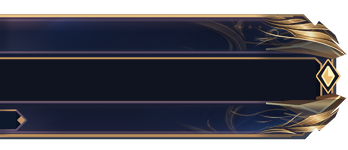
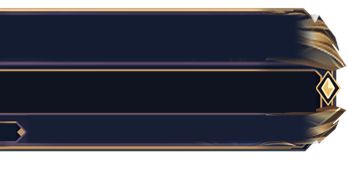
feat(hud): Celestial Crest v3 art (taller name strip); Slim/Medium/Large boss bar, Medium default (new boss_bar_size key); blue backing disc under the portrait

diff --git a/Plugin.TargetHud.Frame.cs b/Plugin.TargetHud.Frame.cs
@@ -3,38 +3,67 @@ using Stellar.Abstractions.Services;
 
 namespace Stellar.TargetLens;
 
-// "Celestial Crest" boss-bar frame for the Target HUD (user-chosen 2026-11-18, direction A — replaced Resonance Glass;
-// art + geometry: _scratch/prototypes/tl-bossbar-art-v2/README.md, same slots as v1). Two sizes, picked in Settings →
-// Target HUD → "Boss bar size" (config "hud_bar_size": 0 = Slim, the default; 1 = Large):
-//   Slim  = the 1× art (@1x PNGs), frame 75 px tall, total width 266 + M  — the "slim" ~9:1 look of the prototype.
-//   Large = the 2× art, frame 150 px tall, total width 532 + M.
-// M is the stretched middle (follows the window width). Geometry below is written in 2× px and halved for Slim (G),
-// so both sizes share one layout:
+// "Celestial Crest" v3 boss-bar frame for the Target HUD (user-approved 2026-11-18: direction A + the taller name strip;
+// art + every slot rect: _scratch/prototypes/tl-bossbar-art-v3/README.md). Three sizes, picked in Settings → Target HUD →
+// "Boss bar size" (config "boss_bar_size": 0 = Slim 1×, 1 = Medium 1.5× — the default, 2 = Large 2×):
 //
+//   size     frame H   total width   PNG suffix
+//   Slim       88      266 + M       @1x
+//   Medium    132      399 + M       @1.5x
+//   Large     176      532 + M       (none)
+//
+// M is the stretched middle (follows the window width). Layer order (README "Assembly"):
 //   LayerStack   base = a frame-height strut (the stack is as wide as the window content)
-//     ├─ portrait      (32, 32, 88×88) circle r 44 — UNDER the frame (the art's portrait socket is transparent)
-//     ├─ frame art     framework 3-slice: left 184 + middle (stretched) + right 348
-//     ├─ badge art     (144, 11, 120×40) gold = BOSS, orange = ELITE, + its text
-//     ├─ name row      name left-centred at x 276 (144 with no badge) + the distance, right-aligned, ending 58 px
-//     │                from the right edge (inside the right cap's distance area); dark drop-shadow copy under it
-//     ├─ HP bar        interior (144, 60, 356+M × 40): gradient + gloss + 10 % ticks + damage trail + striped shield
-//     └─ break gauge   interior (144, 112, 56+M × 16), 10 segments, label right of it on the right cap (MaxStunned > 0)
+//     ├─ portrait disc  deep royal-blue radial backing (Resources/portrait-disc-<px>.png) — portraits with a transparent
+//     │                 background would otherwise show the scene through the medallion
+//     ├─ portrait       the monster's game portrait, circle — UNDER the frame (the art's socket is transparent)
+//     ├─ frame art      framework 3-slice: left cap + middle (stretched) + right cap
+//     ├─ badge art      gold = BOSS, orange = ELITE, + its text
+//     ├─ name row       name left-centred in the name strip (moves left with no badge) + the distance, right-aligned in
+//     │                 the right cap's distance slot; dark drop-shadow copy under it
+//     ├─ HP bar         gradient + gloss + 10 % ticks + damage trail + striped shield
+//     └─ break gauge    10 segments, label right of it in the right cap's break-label area (MaxStunned > 0)
 //
-// Every slot is a StackLayer.Rect (framework 2.34.0) measured from the frame's edges, so a width resize moves anchors
-// only. Art colours are fixed by design (they don't follow the theme). Getters are ≤10 Hz (window refresh) and
-// allocation-free: display strings are cached and rebuilt only when the shown value (or the language) changes.
-// Text: every label is TMP (SDF, sharp at any size) except the HP bar's two labels, which are uGUI dynamic-font Text
-// rasterised at their real pixel size (Scaled(size)) — never a bitmap scaled up — so the 12 px Slim labels stay crisp.
+// Every slot is a StackLayer.Rect (framework 2.34.0) measured from the frame's edges (right-cap slots as insets from the
+// right edge), so a width resize moves anchors only. Art colours are fixed by design (they don't follow the theme).
+// Getters are ≤10 Hz (window refresh) and allocation-free: display strings are cached and rebuilt only when the shown
+// value (or the language) changes. Text: every label is TMP (SDF, sharp at any size) except the HP bar's two labels,
+// which are uGUI dynamic-font Text rasterised at their real pixel size — never a bitmap scaled up.
 public sealed partial class Plugin
 {
-    private bool _hudLarge;   // config "hud_bar_size" == 1 → Large (2×); default Slim (1×). Baked into the window at build.
+    // One size's geometry, straight from the v3 README (px, frame-local). Right* = inset from the frame's RIGHT edge,
+    // derived as (right cap width − local x − width) for right-cap slots and (caps − x − fixed width) for the gauges.
+    private sealed record FrameGeo(
+        string Suffix, float H, float CapsW, float MidMin, float DefaultW,
+        float HpL, float HpT, float HpH, float HpR,
+        float BrL, float BrT, float BrH, float BrR,
+        float PortX, float PortY, float PortD,
+        float BadgeX, float BadgeY, float BadgeW, float BadgeH,
+        float NameX, float StripT, float StripH,
+        float DistR, float DistW, float LblR, float LblW, float LblT, float LblH,
+        int NameFs, int HpFs, int DistFs, int BadgeFs, int LblFs,
+        float Unit);   // 1 / 1.5 / 2 — scales the small effects (shadow, gaps, glow, stripes, segment gaps)
 
-    private float FrameH => _hudLarge ? 150f : 75f;
-    private float FrameCapsW => _hudLarge ? 532f : 266f;   // left cap + right cap at native width
+    private static readonly FrameGeo[] FrameGeos =
+    {
+        // Slim 1×: HP (72,36,178+M,20) · break (72,62,28+M,8) · portrait (16,22,44) · badge (72,8,60,20) · name x 138,
+        // centre y 18 · distance cap-local (76,8,70,20) · break label cap-local (15,58,135,12) · right cap 174.
+        new("@1x", 88, 266, 60, 670, 72, 36, 20, 16, 72, 62, 8, 166, 16, 22, 44, 72, 8, 60, 20, 138, 8, 20,
+            28, 40, 24, 135, 58, 12, 15, 12, 12, 11, 11, 1f),
+        // Medium 1.5×: HP (108,54,267+M,30) · break (108,93,42+M,12) · portrait (24,33,66) · badge (108,12,90,30) ·
+        // name x 207, centre y 27 · distance (114,12,105,30) · break label (22,87,203,18) · right cap 261.
+        new("@1.5x", 132, 399, 90, 1000, 108, 54, 30, 24, 108, 93, 12, 249, 24, 33, 66, 108, 12, 90, 30, 207, 12, 30,
+            42, 60, 36, 203, 87, 18, 22, 16, 15, 15, 15, 1.5f),
+        // Large 2×: HP (144,72,356+M,40) · break (144,124,56+M,16) · portrait (32,44,88) · badge (144,16,120,40) ·
+        // name x 276, centre y 36 · distance (152,16,140,40) · break label (30,116,270,24) · right cap 348.
+        new("", 176, 532, 120, 1300, 144, 72, 40, 32, 144, 124, 16, 332, 32, 44, 88, 144, 16, 120, 40, 276, 16, 40,
+            56, 80, 48, 270, 116, 24, 30, 20, 18, 20, 20, 2f),
+    };
 
-    // 2× px → this size's px (Slim halves; .5 rounds away from zero, matching the README's 1× table: 11 → 6).
-    private float G(float px2x) => _hudLarge ? px2x : System.MathF.Round(px2x * 0.5f, System.MidpointRounding.AwayFromZero);
-    private int Fs(int slim, int large) => _hudLarge ? large : slim;   // font size per size (prototype CSS for Slim)
+    private int _hudSize = 1;                          // 0 Slim / 1 Medium / 2 Large; baked into the window at build
+    private FrameGeo Geo => FrameGeos[_hudSize];
+    private float FrameH => Geo.H;
+    private float FrameCapsW => Geo.CapsW;
 
     private static ColorRgba Hex(int rgb, float a = 1f)
         => new(((rgb >> 16) & 0xFF) / 255f, ((rgb >> 8) & 0xFF) / 255f, (rgb & 0xFF) / 255f, a);
@@ -53,11 +82,11 @@ public sealed partial class Plugin
     private static readonly GradientStop[] BreakGradient  = { new(0f, Hex(0x8fd0ff)), new(1f, Hex(0x2f86e6)) };
     private static readonly GradientStop[] BrokenGradient = { new(0f, Hex(0xffe08a)), new(1f, Hex(0xf29a2a)) };
 
-    // Embedded art (csproj Resources/celestial_crest_*.png, 2× and @1x), read once and cached by CachedPng
-    // (Plugin.Style.Blocks.cs). The Func is chosen at build, so the size's PNG is resolved once per window build.
+    // Embedded art (csproj Resources/celestial_crest_*.png at 2× / @1.5x / @1x, portrait-disc-<px>.png), read once and
+    // cached by CachedPng (Plugin.Style.Blocks.cs). The Func is chosen at build, so a size's PNG resolves once per build.
     private System.Func<byte[]?> Art(string piece)
     {
-        var file = "celestial_crest_" + piece + (_hudLarge ? ".png" : "@1x.png");
+        var file = "celestial_crest_" + piece + Geo.Suffix + ".png";
         return () => CachedPng(file);
     }
 
@@ -66,74 +95,79 @@ public sealed partial class Plugin
 
     private HudElement BuildTargetHudFrame()
     {
-        var badgeRect = new LayerRect { Left = G(144), Top = G(11), Width = G(120), Height = G(40) };
-        var breakRect = new LayerRect { Left = G(144), Right = G(332), Top = G(112), Height = G(16) };
-        float portrait = G(88);
+        var g = Geo;
+        var badgeRect = new LayerRect { Left = g.BadgeX, Top = g.BadgeY, Width = g.BadgeW, Height = g.BadgeH };
+        var breakRect = new LayerRect { Left = g.BrL, Right = g.BrR, Top = g.BrT, Height = g.BrH };
+        var portRect = new LayerRect { Left = g.PortX, Top = g.PortY, Width = g.PortD, Height = g.PortD };
+        int d = (int)g.PortD;
+        var discFile = "portrait-disc-" + d + ".png";
         return new LayerStackElement(
-            new SpacerElement(Height: FrameH),
-            At(new GameTextureElement(() => GetMonsterPortrait(), (int)portrait, (int)portrait, () => _portraitUv) { CornerRadius = (int)(portrait / 2f) },
-                new LayerRect { Left = G(32), Top = G(32), Width = portrait, Height = portrait }),
-            new StackLayer(new SlicedImageElement(Art("left"), Art("mid"), Art("right"), (int)FrameH)),
+            new SpacerElement(Height: g.H),
+            At(new ImageElement(() => CachedPng(discFile), d, d) { Crisp = true }, portRect),
+            At(new GameTextureElement(() => GetMonsterPortrait(), d, d, () => _portraitUv) { CornerRadius = d / 2 }, portRect),
+            new StackLayer(new SlicedImageElement(Art("left"), Art("mid"), Art("right"), (int)g.H)),
             // Rank badge: art + text (BOSS / ELITE). Normal monsters: no badge, and the name moves left.
-            At(new ImageElement(Art("badge_gold"), (int)G(120), (int)G(40)) { Crisp = true }, badgeRect, TargetHudIsBoss),
-            At(new ImageElement(Art("badge_orange"), (int)G(120), (int)G(40)) { Crisp = true }, badgeRect, TargetHudIsElite),
+            At(new ImageElement(Art("badge_gold"), (int)g.BadgeW, (int)g.BadgeH) { Crisp = true }, badgeRect, TargetHudIsBoss),
+            At(new ImageElement(Art("badge_orange"), (int)g.BadgeW, (int)g.BadgeH) { Crisp = true }, badgeRect, TargetHudIsElite),
             At(new TextElement(() => TargetHudRankText(), Color: () => TargetHudIsBoss() ? BossBadgeText : EliteBadgeText,
-                Align: TextAlign.Center, FontSize: Fs(11, 20)) { Bold = true, CenterCaps = true }, badgeRect, TargetHudHasRank),
+                Align: TextAlign.Center, FontSize: g.BadgeFs) { Bold = true, CenterCaps = true }, badgeRect, TargetHudHasRank),
             // Name (white bold) + distance share one row per rank variant, so the name gets every px up to the distance
             // text and is cut with "…" only when it really doesn't fit. The TMP text path has no shadow, so a dark copy
             // 1–2 px down-right (same row width → the same cut) stands in for it.
-            NameRow(G(276), true, shadow: true), NameRow(G(276), true, shadow: false),
-            NameRow(G(144), false, shadow: true), NameRow(G(144), false, shadow: false),
-            At(BuildFrameHpBar(), new LayerRect { Left = G(144), Right = G(32), Top = G(60), Height = G(40) }),
+            NameRow(g.NameX, true, shadow: true), NameRow(g.NameX, true, shadow: false),
+            NameRow(g.BadgeX, false, shadow: true), NameRow(g.BadgeX, false, shadow: false),
+            At(BuildFrameHpBar(), new LayerRect { Left = g.HpL, Right = g.HpR, Top = g.HpT, Height = g.HpH }),
             // Break gauge (any target with one, MaxStunned > 0): blue while draining, gold + glow while broken (refill tween).
             At(BuildFrameBreakBar(BreakGradient, glow: false), breakRect, () => TargetHudHasBreak() && !TargetHudBroken()),
             At(BuildFrameBreakBar(BrokenGradient, glow: true), breakRect, () => TargetHudHasBreak() && TargetHudBroken()),
-            // Label right of the gauge on the right cap (gauge ends 332 px from the right edge; +16 gap).
-            At(new TextElement(() => TargetHudBreakText(), Color: () => TargetHudBroken() ? BrokenLabelCol : BreakLabelCol, FontSize: Fs(11, 20))
-                { Bold = true, CenterCaps = true }, new LayerRect { Right = G(56), Width = G(260), Top = G(104), Height = G(32) }, TargetHudHasBreak));
+            // Label in the right cap's break-label area, right of the gauge.
+            At(new TextElement(() => TargetHudBreakText(), Color: () => TargetHudBroken() ? BrokenLabelCol : BreakLabelCol, FontSize: g.LblFs)
+                { Bold = true, CenterCaps = true }, new LayerRect { Right = g.LblR, Width = g.LblW, Top = g.LblT, Height = g.LblH }, TargetHudHasBreak));
     }
 
-    // One name row on the badge line (2×: y 11..51, centred at 31): name left-centred at x = left, filling the row
-    // (Weight) up to a fixed-width right-aligned distance cell ending 58 px (2×) from the frame's right edge. The
-    // distance cell's min = preferred width, so when the row is short the NAME gives way, and Ellipsize cuts it per
-    // character only past the real row width. (A separate name layer ending at the distance AREA + MaxLines = 1 cut
-    // whole words → "Enemy Training..." with ~390 px free, in game 2026-11-18.) Shadow rows: same geometry, spacer.
+    // One name row = the whole name strip band (badge-height, centred on the strip's centreline): the name left-centred
+    // at x = left, filling the row (Weight) up to a fixed-width right-aligned distance cell that ends at the right edge
+    // of the right cap's distance slot. The distance cell's min = preferred width, so when the row is short the NAME
+    // gives way, and Ellipsize cuts it per character only past the real row width. (A separate name layer ending at the
+    // distance AREA + MaxLines = 1 cut whole words → "Enemy Training..." with ~390 px free, in game 2026-11-18.)
+    // Shadow rows: same geometry with a spacer for the distance.
     private StackLayer NameRow(float left, bool withRank, bool shadow)
     {
-        float d = shadow ? G(2) : 0f, distW = G(80);
-        var name = new TextElement(() => TargetHudNameLine(), Color: shadow ? () => NameShadowCol : null, FontSize: Fs(15, 30), NoWrap: true)
-            { Bold = true, Ellipsize = true };
+        var g = Geo;
+        float d = shadow ? System.MathF.Max(1f, System.MathF.Round(g.Unit)) : 0f;
+        var name = new TextElement(() => TargetHudNameLine(), Color: shadow ? () => NameShadowCol : null, FontSize: g.NameFs, NoWrap: true)
+            { Bold = true, Ellipsize = true, CenterCaps = true };
         // Distance: small muted regular weight. RichEmoji routes it through the TMP path, the only one honouring FontSize
         // without bold (plain Menu Text is fixed 14 px); "35 m" has no sprite tags, so it renders as plain TMP text.
-        HudElement dist = shadow ? new SpacerElement(Width: distW)
-            : new CellElement(new TextElement(() => TargetHudDistText(), Color: () => DistColor, Align: TextAlign.Right, FontSize: Fs(12, 18))
-                { RichEmoji = true }, Width: distW);
-        var row = new RowElement(new HudElement[] { new CellElement(name, Weight: 1f), dist }, Gap: G(8));
-        return At(row, new LayerRect { Left = left + d, Right = G(58) - d, Top = G(11) + d, Height = G(40) },
+        HudElement dist = shadow ? new SpacerElement(Width: g.DistW)
+            : new CellElement(new TextElement(() => TargetHudDistText(), Color: () => DistColor, Align: TextAlign.Right, FontSize: g.DistFs)
+                { RichEmoji = true, CenterCaps = true }, Width: g.DistW);
+        var row = new RowElement(new HudElement[] { new CellElement(name, Weight: 1f), dist }, Gap: 4f * g.Unit);
+        return At(row, new LayerRect { Left = left + d, Right = g.DistR - d, Top = g.StripT + d, Height = g.StripH },
             withRank ? TargetHudHasRank : () => !TargetHudHasRank());
     }
 
     private HudElement BuildFrameHpBar() => new BarElement(() => TargetHudHpFraction(), Hex(0xffffff), () => TargetHudHpLabel())
     {
-        Style = BarStyle.Modern, Height = G(40), FillWidth = true, LabelFontSize = Fs(12, 20),
-        LabelAlign = TextAlign.Center, LabelOutline = true, LabelInset = G(16),
+        Style = BarStyle.Modern, Height = Geo.HpH, FillWidth = true, LabelFontSize = Geo.HpFs,
+        LabelAlign = TextAlign.Center, LabelOutline = true, LabelInset = 8f * Geo.Unit,
         SecondaryLabel = () => TargetHudHpPct(), SecondaryLabelColorFn = () => TargetHudHpFraction() < 0.2f ? HpLowColor : null,
         TrackColorFn = () => FrameClear,   // the art's interior is the track
         FillGradient = HpGradient, Gloss = true,
-        Ticks = 10, TickColor = new ColorRgba(0f, 0f, 0f, 0.2f), TickWidth = 1f,   // barely-there 10 % ticks (concept), 1 px at both sizes
+        Ticks = 10, TickColor = new ColorRgba(0f, 0f, 0f, 0.2f), TickWidth = 1f,   // barely-there 10 % ticks (concept), 1 px at every size
         Trail01 = () => TargetHudTrailFraction(), TrailColor = Hex(0xf6d0c8),
         // Shield: a striped cyan segment right after the HP fill, [hp, hp + shield] / max (same shield value as before).
         OverlayStart01 = () => TargetHudHpFraction(), Overlay01 = () => TargetHudShieldEndFraction(), OverlayInFront = true,
-        OverlayColor = Hex(0x7ff0ff), OverlayStripeColor = Hex(0x3fc6e6), OverlayStripeWidth = G(8),
-        OverlayGlow = Hex(0x7ff0ff, 0.8f), GlowRadius = G(12),
+        OverlayColor = Hex(0x7ff0ff), OverlayStripeColor = Hex(0x3fc6e6), OverlayStripeWidth = 4f * Geo.Unit,
+        OverlayGlow = Hex(0x7ff0ff, 0.8f), GlowRadius = 6f * Geo.Unit,
     };
 
     private HudElement BuildFrameBreakBar(GradientStop[] gradient, bool glow) => new BarElement(() => TargetHudBreakFraction(), Hex(0xffffff))
     {
-        Style = BarStyle.Modern, Height = G(16), FillWidth = true,
+        Style = BarStyle.Modern, Height = Geo.BrH, FillWidth = true,
         TrackColorFn = () => FrameClear, FillGradient = gradient,
-        Ticks = 10, TickColor = new ColorRgba(10f / 255f, 16f / 255f, 30f / 255f, 0.9f), TickWidth = G(4),
-        FillGlow = glow ? Hex(0xffb84a, 0.9f) : null, GlowRadius = G(12),
+        Ticks = 10, TickColor = new ColorRgba(10f / 255f, 16f / 255f, 30f / 255f, 0.9f), TickWidth = 2f * Geo.Unit,
+        FillGlow = glow ? Hex(0xffb84a, 0.9f) : null, GlowRadius = 6f * Geo.Unit,
     };
 
     // ── Damage trail: holds the previous HP ~0.6 s after a drop, then eases down over ~0.4 s (ease-out). Resets on a

diff --git a/Plugin.TargetHud.cs b/Plugin.TargetHud.cs
@@ -55,12 +55,18 @@ public sealed partial class Plugin
     {
         _monIcon ??= new MonsterIconLoader(_services);   // ??= : a bar-size rebuild re-enters here
 
-        _hudLarge = _cfg.Get<int>("hud_bar_size", 0) == 1;   // Slim (1×) by default; Large = 2×
+        // Boss bar size 0 Slim / 1 Medium (default) / 2 Large. Own key "boss_bar_size": the first build stored Slim as
+        // "hud_bar_size" = 0 by default (never a deliberate pick), so that key only carries a Large choice (1 → 2) over;
+        // everything else lands on the new default, Medium. Nothing is written until the user picks a size.
+        int size = _cfg.Get<int>("boss_bar_size", -1);
+        if (size < 0) size = _cfg.Get<int>("hud_bar_size", 0) == 1 ? 2 : 1;
+        _hudSize = System.Math.Clamp(size, 0, 2);
 
-        // MIN width = the art's two caps + a short middle (Slim 266 + 60, Large 532 + 120) + padding, so the HP bar
-        // never gets shorter than ~238 / ~476 px. Defaults: Slim frame ≈ 646 px (the prototype's ~9:1), Large ≈ 976 px.
+        // MIN width = the art's two caps + a short middle (Slim 266 + 60, Medium 399 + 90, Large 532 + 120 — the badge
+        // crosses the left seam and needs ≥ 40 / 60 / 80 px of middle) + padding. Defaults (frame width + 24 padding):
+        // Slim 670, Medium 1000, Large 1300.
         float HudW = HudMinW();
-        float HudDefaultW = _hudLarge ? 1000f : 670f;
+        float HudDefaultW = Geo.DefaultW;
         // Resizable disables the content-auto-fit and fixes the height, so set an explicit height and lock it
         // below (MinHeight==MaxHeight) — width stays resizable, height cannot be dragged.
         //
@@ -68,9 +74,9 @@ public sealed partial class Plugin
         // WindowBuilder-Patterns.md), so it's chosen at registration from the PERSISTED buff style + bar size (a bar
         // size change re-registers the window: SetHudBarSize). Read straight from _cfg (not _buffStyle) so it
         // doesn't depend on which partial's ctor sets that field first.
-        //   List (1) / Off (2): 12 pad + frame (Slim 75 / Large 150) + 12 pad = 99 / 174 (the break gauge is in the frame).
+        //   List (1) / Off (2): 12 pad + frame (Slim 88 / Medium 132 / Large 176) + 12 pad = 112 / 156 / 200.
         //   Classic (0): + 8 column gap + the effect-tile row (44 icon + 2 + ~16 seconds caption ≈ 62) + 4 slack for
-        //                font metrics → 173 / 248.
+        //                font metrics → 186 / 230 / 274.
         // A live style toggle re-fits this height only on the next reload/relog (accepted; no live height resize).
         float HudH = HudLockedH();
         // Default position tuned in-game (user's saved 2560x1440 layout: x=984, y=0).
@@ -108,22 +114,22 @@ public sealed partial class Plugin
         _targetHudWindow.SetVisible(_targetHudOn);
     }
 
-    private float HudMinW() => FrameCapsW + (_hudLarge ? 120f : 60f) + 2f * HudPad;
+    private float HudMinW() => FrameCapsW + Geo.MidMin + 2f * HudPad;
     private float HudLockedH() => FrameH + 2f * HudPad + (_cfg.Get<int>("buff_style", 1) == 0 ? 74f : 0f);
 
-    // Settings → Target HUD → Boss bar size (Slim / Large). Sizes, art, the locked height and the width floor are all
+    // Settings → Target HUD → Boss bar size (Slim / Medium / Large). Sizes, art, the locked height and the width floor are all
     // baked at build, so a change re-registers the window — the framework-sanctioned Remove()+Register() (mirrors
     // RebuildBossTimerWindow). Keeps the user's position and width (widened to the new size's floor if needed) and takes
     // the new size's locked height; visibility comes from RegisterTargetHud's SetVisible(_targetHudOn) + ShouldRender.
-    private void SetHudBarSize(bool large)
+    private void SetHudBarSize(int size)
     {
-        if (large == _hudLarge) return;
-        _cfg.Set<int>("hud_bar_size", large ? 1 : 0);
+        if (size == _hudSize) return;
+        _cfg.Set<int>("boss_bar_size", size);
         _cfg.Save();
         var rect = _targetHudWindow.Rect;
         _windows.Remove(_targetHudWindow);
         _targetHudWindow.Remove();
-        RegisterTargetHud();   // re-reads hud_bar_size → _hudLarge
+        RegisterTargetHud();   // re-reads boss_bar_size → _hudSize
         if (rect.Width <= 0f) return;
         _targetHudWindow.SetRect(new WindowRect(rect.X, rect.Y, System.Math.Max(rect.Width, HudMinW()), HudLockedH()));
     }

diff --git a/Plugin.Settings.Layout.cs b/Plugin.Settings.Layout.cs
@@ -40,7 +40,7 @@ public sealed partial class Plugin
     }, Gap: SettingsGap);
 
     // ── left column ───────────────────────────────────────────────────────────────────────────────────────────────
-    // TARGET HUD: caption + hint + the On/Off chip, and the boss-bar size (Slim = 1× art, the default; Large = 2×).
+    // TARGET HUD: caption + hint + the On/Off chip, and the boss-bar size (Slim 1× / Medium 1.5×, the default / Large 2×).
     // A size change re-registers the HUD window (SetHudBarSize), keeping its position and width.
     private HudElement BuildTargetHudSection() => SectionPanel(() => _loc.T("tl.section.targetHud"),
         () => _loc.T("tl.hint.targetHud"),
@@ -55,8 +55,9 @@ public sealed partial class Plugin
         {
             ChoiceRow("tl.row.barSize", "tl.help.barSize", "tl.section.targetHud", new HudElement[]
             {
-                ChoiceChip("tl.choice.slim",  () => !_hudLarge, () => SetHudBarSize(false), BarSizeChipW),
-                ChoiceChip("tl.choice.large", () => _hudLarge,  () => SetHudBarSize(true),  BarSizeChipW),
+                ChoiceChip("tl.choice.slim",   () => _hudSize == 0, () => SetHudBarSize(0), BarSizeChipW),
+                ChoiceChip("tl.choice.medium", () => _hudSize == 1, () => SetHudBarSize(1), BarSizeMidChipW),
+                ChoiceChip("tl.choice.large",  () => _hudSize == 2, () => SetHudBarSize(2), BarSizeChipW),
             }),
         });
 

diff --git a/tools/gen_portrait_disc.py b/tools/gen_portrait_disc.py
@@ -1,0 +1,19 @@
+# Usage: python tools/gen_portrait_disc.py Resources
+# Portrait backing disc for the TargetLens boss bar: radial gradient #2a4aa0 (centre) -> #0e1a3a (edge), antialiased
+# edge via 8x supersampling, exactly filling the portrait circle. One PNG per size: 88 / 66 / 44 px.
+import sys, math
+from PIL import Image
+out = sys.argv[1]
+C, E = (0x2a, 0x4a, 0xa0), (0x0e, 0x1a, 0x3a)
+for size in (88, 66, 44):
+    ss = 8; n = size * ss; r = n / 2.0
+    im = Image.new("RGBA", (n, n), (0, 0, 0, 0)); px = im.load()
+    for y in range(n):
+        for x in range(n):
+            d = math.hypot(x + 0.5 - r, y + 0.5 - r) / r
+            if d <= 1.0:
+                t = d ** 1.2
+                px[x, y] = tuple(round(C[i] + (E[i] - C[i]) * t) for i in range(3)) + (255,)
+    im = im.resize((size, size), Image.LANCZOS)
+    im.save(f"{out}/portrait-disc-{size}.png", optimize=True)
+    print(size, im.getpixel((size // 2, size // 2)), im.getpixel((0, 0)), im.getpixel((size // 2, 0)))

diff --git a/Plugin.Settings.Rows.cs b/Plugin.Settings.Rows.cs
@@ -18,7 +18,8 @@ public sealed partial class Plugin
     private const float BuffClassicChipW = 72f;
     private const float ListChipW        = 64f;
     private const float OffChoiceChipW   = 48f;
-    private const float BarSizeChipW     = 72f;   // Slim / Large (longest locale label fits 72)
+    private const float BarSizeChipW     = 60f;   // Slim / Large (longest: id "Ramping" ≈ 52 at bold 13)
+    private const float BarSizeMidChipW  = 84f;   // Medium (longest: fil "Katamtaman" ≈ 76 at bold 13)
     private const float TopAggroChipW    = 92f;
     private const float ChoiceChipGap    = 4f;
     private const float SliderValueW     = 36f;   // "2.5x"
